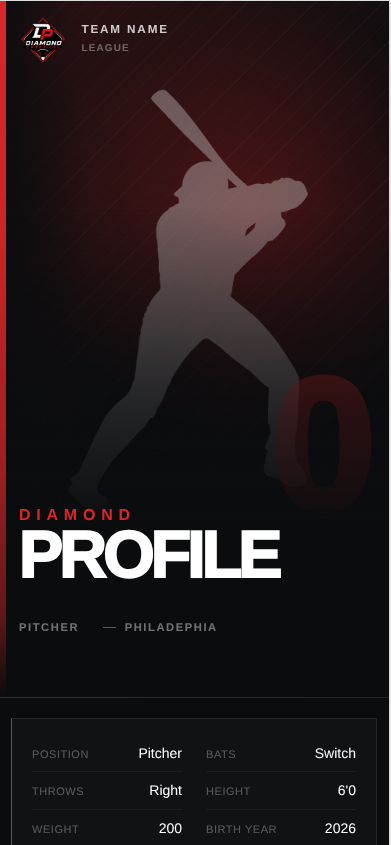
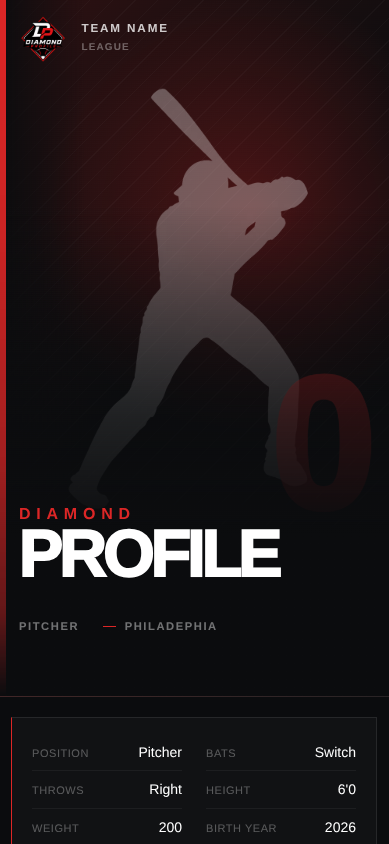
Polish marketing preview branding

diff --git a/src/app/page.tsx b/src/app/page.tsx
@@ -73,7 +73,7 @@ function ProductWindow() {
             <Image src="/diamond-profile-logo.png" alt="" width={24} height={24} className="h-6 w-6 object-contain" />
             <strong className="hidden text-[11px] text-white/75 sm:block">Diamond Profile</strong>
             <span className="min-w-0 flex-1 truncate rounded-md border border-white/5 bg-black/25 px-3 py-1.5 text-center font-mono text-[8px] text-white/35">
-              diamondprofile.app/marcus-cole
+              diamondprofile.app/diamond-profile
             </span>
             <span className="h-2 w-2 rounded-full bg-[#e01010]" />
           </div>
@@ -103,7 +103,7 @@ function ProductWindow() {
             </div>
             <div className="absolute inset-x-0 bottom-0 z-10 bg-[linear-gradient(transparent,rgba(5,7,9,.96)_38%)] px-5 pb-5 pt-28 sm:pl-16 sm:pr-8 sm:pb-7">
               <p className="text-[10px] font-bold uppercase tracking-[0.22em] text-[#ff7a7a]">Shortstop · Class of 2027</p>
-              <h3 className="mt-2 text-4xl font-bold tracking-[-0.055em] text-white sm:text-6xl">Marcus Cole</h3>
+              <h3 className="mt-2 text-4xl font-bold tracking-[-0.055em] text-white sm:text-6xl">Diamond Profile</h3>
               <p className="mt-2 text-[11px] text-white/45">Motor City Select · Detroit, Michigan</p>
               <div className="mt-5 grid max-w-lg grid-cols-3 gap-1 sm:grid-cols-6">
                 {[[".347", "AVG"], [".429", "OBP"], [".518", "SLG"], ["5", "HR"], ["31", "RBI"], ["14", "SB"]].map(([value, label]) => (
@@ -251,7 +251,7 @@ export default function HomePage() {
             <div className="relative flex aspect-video items-center justify-center overflow-hidden rounded-xl bg-[linear-gradient(135deg,#401018,#111317_55%,#090a0c)]">
               <div className="absolute inset-0 opacity-20 [background-image:radial-gradient(circle_at_70%_30%,#ff4d5b,transparent_35%)]" />
               <span className="relative flex h-20 w-20 items-center justify-center rounded-full border border-white/25 bg-black/35 backdrop-blur"><CirclePlay className="h-9 w-9 text-white" /></span>
-              <div className="absolute inset-x-5 bottom-5 flex items-end justify-between"><div><p className="text-lg font-semibold">Marcus Cole</p><p className="mt-1 text-xs text-white/40">6 clips · 04:18</p></div><span className="rounded-full bg-[#e01010] px-3 py-1 text-[10px] font-bold">FEATURED</span></div>
+              <div className="absolute inset-x-5 bottom-5 flex items-end justify-between"><div><p className="text-lg font-semibold">Diamond Profile</p><p className="mt-1 text-xs text-white/40">6 clips · 04:18</p></div><span className="rounded-full bg-[#e01010] px-3 py-1 text-[10px] font-bold">FEATURED</span></div>
             </div>
           </div>
         </div>